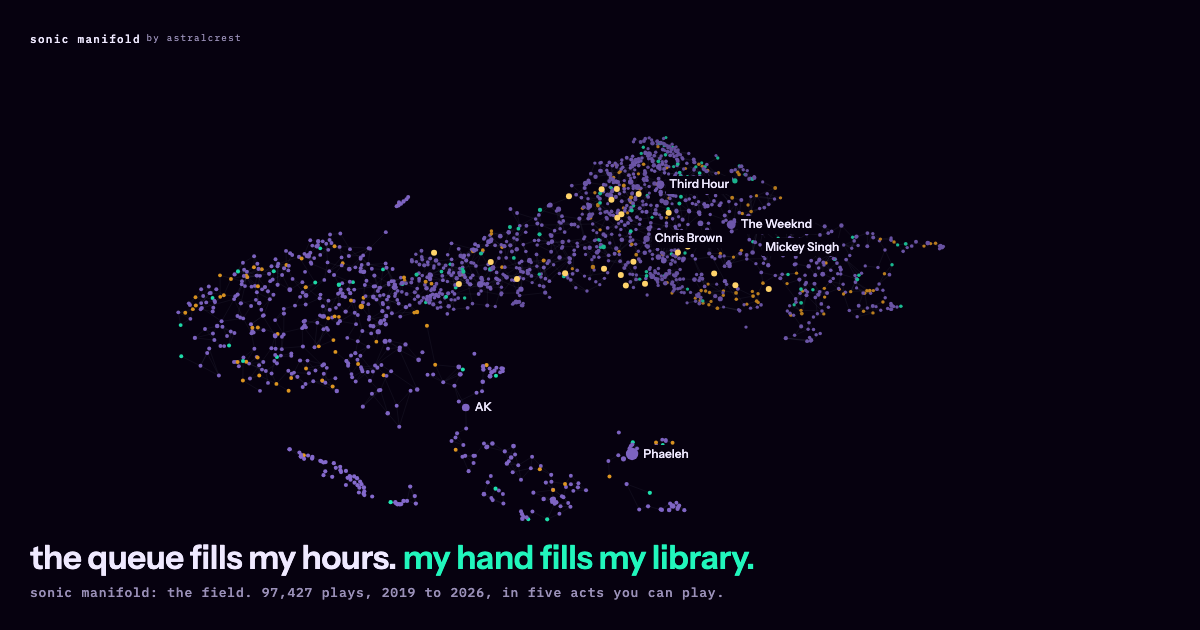
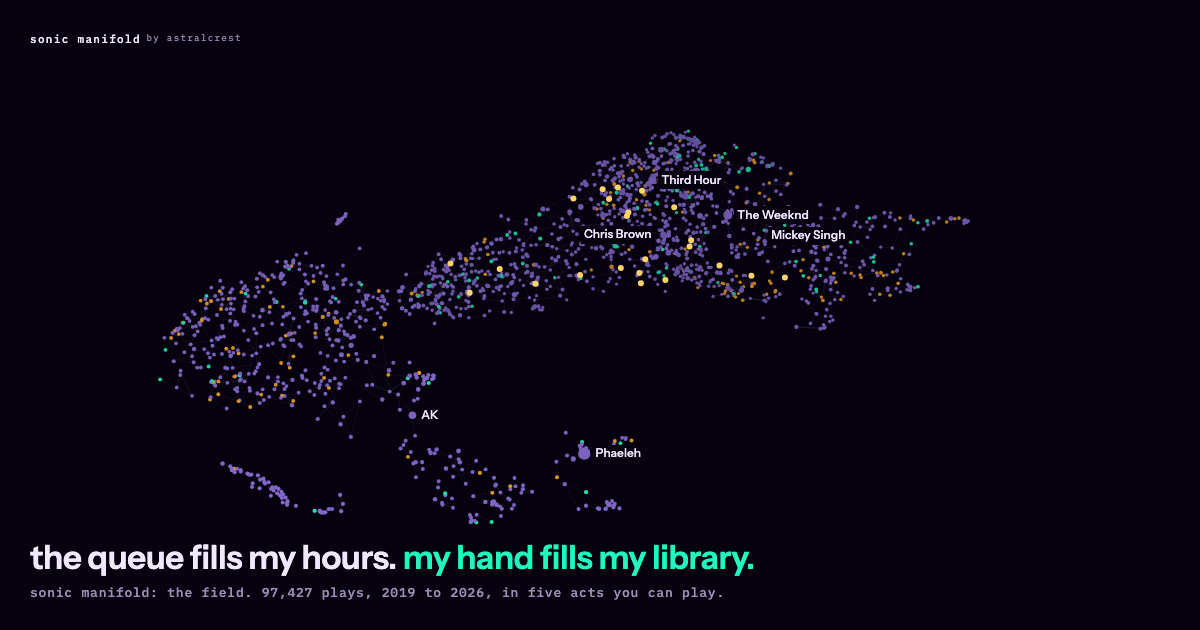
update

diff --git a/index.html b/index.html
@@ -196,14 +196,14 @@ details.deep p{margin:0;padding:0 12px 10px;font-size:12.5px;line-height:1.5;col
 <section class="act" id="a-maps" aria-labelledby="h-maps">
 <p class="kick">act three &middot; the two maps</p>
 <h2 id="h-maps">the same artists, drawn twice: <span>by how they sound, and by what followed what.</span></h2>
-<p class="so">every point is an artist. the first map places them by sound; the second by the log, each artist pulled toward the ones that played next to it. <span class="mint">mint: two artists my hand pressed one after the other.</span> <span style="color:var(--violet)">violet: two the queue played in a row.</span></p>
+<p class="so">every point is an artist. the first map places them by sound; the second by the log, each artist pulled toward the ones that played next to it. a model shown months it never saw told my link from the queue&rsquo;s about 69 times in 100 from how connected the two artists were, how familiar the second was and who chose the song before; about 78 once it knew whether the queue had already played that pair. the gain is the queue repeating itself, not the shape of the network. <span class="mint">mint: two artists my hand pressed one after the other.</span> <span style="color:var(--violet)">violet: two the queue played in a row.</span></p>
 <div class="game" id="maps">
   <small class="k">fly between the maps</small>
   <div class="row"><button type="button" class="chip" id="m-sound">by sound</button><button type="button" class="chip" id="m-graph">by what followed</button></div>
-  <p class="r" id="m-mode">by sound. the queue's lines are short here: its next song sounds like the last. watch where my lines go.</p>
+  <p class="r" id="m-mode">by sound. every line is short here, whichever hand drew it: the next artist sounds like the last. the queue&rsquo;s run sits a shade tighter.</p>
 </div>
 <p class="how">how: the second map is a force layout of the transition graph (consecutive plays inside a sitting, different artists, shuffle steps dropped), the same 1,871 artists. a press line joins two presses of mine with nothing but the queue between them; a queue line joins two served plays in a row. 1,600 lines of each, drawn at random, so the eye compares spread, not count. tap a point to hear it in either map.</p>
-<details class="deep"><summary>deeper</summary><p id="m-deep">seven pre-registered lanes on the two geometries ran on 2026-11-03 with an adversarial referee; the verdicts land here when the referee signs them. nothing in this act is a size.</p></details>
+<details class="deep"><summary>deeper</summary><p id="m-deep">seven pre-registered lanes on the two geometries ran on 2026-11-03, the plan hashed before any number, each lane re-run by an adversarial referee. one held on months the analysis never saw: on those months, shown one link that followed my press and one the queue made, a model picked mine about 69 times in 100 knowing only how connected the two artists were, how familiar the second one was and who chose the song before, and about 78 times in 100 once it also knew whether the queue had already played that pair; chance is 50, and the gain comes from the queue repeating itself, not from the shape of the network around them. one is descriptive: the links my hand made at both ends follow sound too, far closer than random pairs; the queue&rsquo;s own links sit a shade closer in sound, a difference too small to certify. the other five (who walked a pair first, where new artists enter, whether my press share clusters on either map, the flow between families, a per-hand model of the next artist) fell under their bars or ran the other way and get no sentence; they live in the lab and the paper. nothing in this act is a size.</p></details>
 </section>
 
 <section class="act" id="a-keep" aria-labelledby="h-keep">
@@ -252,7 +252,7 @@ details.deep p{margin:0;padding:0 12px 10px;font-size:12.5px;line-height:1.5;col
 </main>
 <div id="player-dock"></div>
 <script>(function(){var ST={"taste":"5b22ea6a68","genre":"d8225fac12","nodes":"f62c9d46f9","pairs":"65271eccdc","graveyard":"c059e2686a","tracks":"9f65301c74","hear":"32c1ba0b88","sky":"ce556d8763","years":"122de0cd9e","radio":"a899ef5706","pv":"381d21eeee","field":"d3aaffea0c","maps":"8968097125"};window.__ledger={V:ST,READY:{}};window.__front={stamps:ST,field:true};})();</script>
-<script src="front/field.js?v=4e3698fd74" defer></script>
+<script src="front/field.js?v=b9abbbdee6" defer></script>
 <script src="front/music.js?v=39372afec0" defer></script>
 </body>
 </html>

diff --git a/front/template.html b/front/template.html
@@ -196,14 +196,14 @@ details.deep p{margin:0;padding:0 12px 10px;font-size:12.5px;line-height:1.5;col
 <section class="act" id="a-maps" aria-labelledby="h-maps">
 <p class="kick">act three &middot; the two maps</p>
 <h2 id="h-maps">the same artists, drawn twice: <span>by how they sound, and by what followed what.</span></h2>
-<p class="so">every point is an artist. the first map places them by sound; the second by the log, each artist pulled toward the ones that played next to it. <span class="mint">mint: two artists my hand pressed one after the other.</span> <span style="color:var(--violet)">violet: two the queue played in a row.</span></p>
+<p class="so">every point is an artist. the first map places them by sound; the second by the log, each artist pulled toward the ones that played next to it. a model shown months it never saw told my link from the queue&rsquo;s about 69 times in 100 from how connected the two artists were, how familiar the second was and who chose the song before; about 78 once it knew whether the queue had already played that pair. the gain is the queue repeating itself, not the shape of the network. <span class="mint">mint: two artists my hand pressed one after the other.</span> <span style="color:var(--violet)">violet: two the queue played in a row.</span></p>
 <div class="game" id="maps">
   <small class="k">fly between the maps</small>
   <div class="row"><button type="button" class="chip" id="m-sound">by sound</button><button type="button" class="chip" id="m-graph">by what followed</button></div>
-  <p class="r" id="m-mode">by sound. the queue's lines are short here: its next song sounds like the last. watch where my lines go.</p>
+  <p class="r" id="m-mode">by sound. every line is short here, whichever hand drew it: the next artist sounds like the last. the queue&rsquo;s run sits a shade tighter.</p>
 </div>
 <p class="how">how: the second map is a force layout of the transition graph (consecutive plays inside a sitting, different artists, shuffle steps dropped), the same 1,871 artists. a press line joins two presses of mine with nothing but the queue between them; a queue line joins two served plays in a row. 1,600 lines of each, drawn at random, so the eye compares spread, not count. tap a point to hear it in either map.</p>
-<details class="deep"><summary>deeper</summary><p id="m-deep">seven pre-registered lanes on the two geometries ran on 2026-11-03 with an adversarial referee; the verdicts land here when the referee signs them. nothing in this act is a size.</p></details>
+<details class="deep"><summary>deeper</summary><p id="m-deep">seven pre-registered lanes on the two geometries ran on 2026-11-03, the plan hashed before any number, each lane re-run by an adversarial referee. one held on months the analysis never saw: on those months, shown one link that followed my press and one the queue made, a model picked mine about 69 times in 100 knowing only how connected the two artists were, how familiar the second one was and who chose the song before, and about 78 times in 100 once it also knew whether the queue had already played that pair; chance is 50, and the gain comes from the queue repeating itself, not from the shape of the network around them. one is descriptive: the links my hand made at both ends follow sound too, far closer than random pairs; the queue&rsquo;s own links sit a shade closer in sound, a difference too small to certify. the other five (who walked a pair first, where new artists enter, whether my press share clusters on either map, the flow between families, a per-hand model of the next artist) fell under their bars or ran the other way and get no sentence; they live in the lab and the paper. nothing in this act is a size.</p></details>
 </section>
 
 <section class="act" id="a-keep" aria-labelledby="h-keep">

diff --git a/front/field.js b/front/field.js
@@ -252,7 +252,7 @@ function paint(now) {
     g.font = '500 ' + (phone ? 10 : 11) + 'px ' + MONO; g.textAlign = 'center'; g.textBaseline = 'middle';
     g.fillStyle = MINT; g.fillText('inside: my press', cam.cx, cam.cy - 9); g.fillStyle = VIOLET; g.fillText('outside: the queue', cam.cx, cam.cy + 9);
   }
-  if (scene === C_MAPS && blend >= 1) {
+  if (scene === C_MAPS && blend >= 1 && !S.quiet) {
     g.font = '500 ' + (phone ? 10 : 11) + 'px ' + MONO; g.textAlign = 'center'; g.textBaseline = 'bottom';
     var ly = Math.min(H - 8, cam.cy + cam.r + (phone ? 14 : 18)), t1 = S.mb < 0.5 ? 'by sound' : 'by what followed', t2 = phone ? 'mint: my press, then my press · violet: the queue\u2019s run' : 'mint: two presses of mine in a row · violet: two of the queue\u2019s in a row';
     if (!MAPS) t1 = 'the second map is loading…';
@@ -493,7 +493,7 @@ on('#b-queue', function () { S.mode = 'queue'; S.line = null; walk(); text('#h-m
 on('#b-hand', function () { S.mode = 'hand'; S.line = null; breakRun(); text('#h-mode', 'my hand breaks the run: the next song is far in sound, another family. hear the jump.'); });
 function loadMaps() { if (!mapsP) mapsP = fetchJ('maps').then(function (j) { MAPS = j; wake(); return j; }, function () { mapsP = null; }); return mapsP; }
 function flyTo(t) { if (S.mt === t && S.mb === t) return; S.mFrom = S.mb; S.mt = t; S.mT0 = performance.now(); loadMaps(); wake(); }
-on('#m-sound', function () { flyTo(0); text('#m-mode', 'by sound. the queue\u2019s lines are short here: its next song sounds like the last. watch where my lines go.'); });
+on('#m-sound', function () { flyTo(0); text('#m-mode', 'by sound. every line is short here, whichever hand drew it: the next artist sounds like the last. the queue\u2019s run sits a shade tighter.'); });
 on('#m-graph', function () { flyTo(1); text('#m-mode', 'by what followed. every line is short now, by construction: this map was drawn from the lines. the question is which map the other hand\u2019s lines respect.'); });
 on('#g-start', startGame); on('#g-keep', function () { answer(true, false); }); on('#g-go', function () { answer(false, false); });
 on('#w-start', whose); on('#w-me', function () { whAnswer(true); }); on('#w-app', function () { whAnswer(false); });
